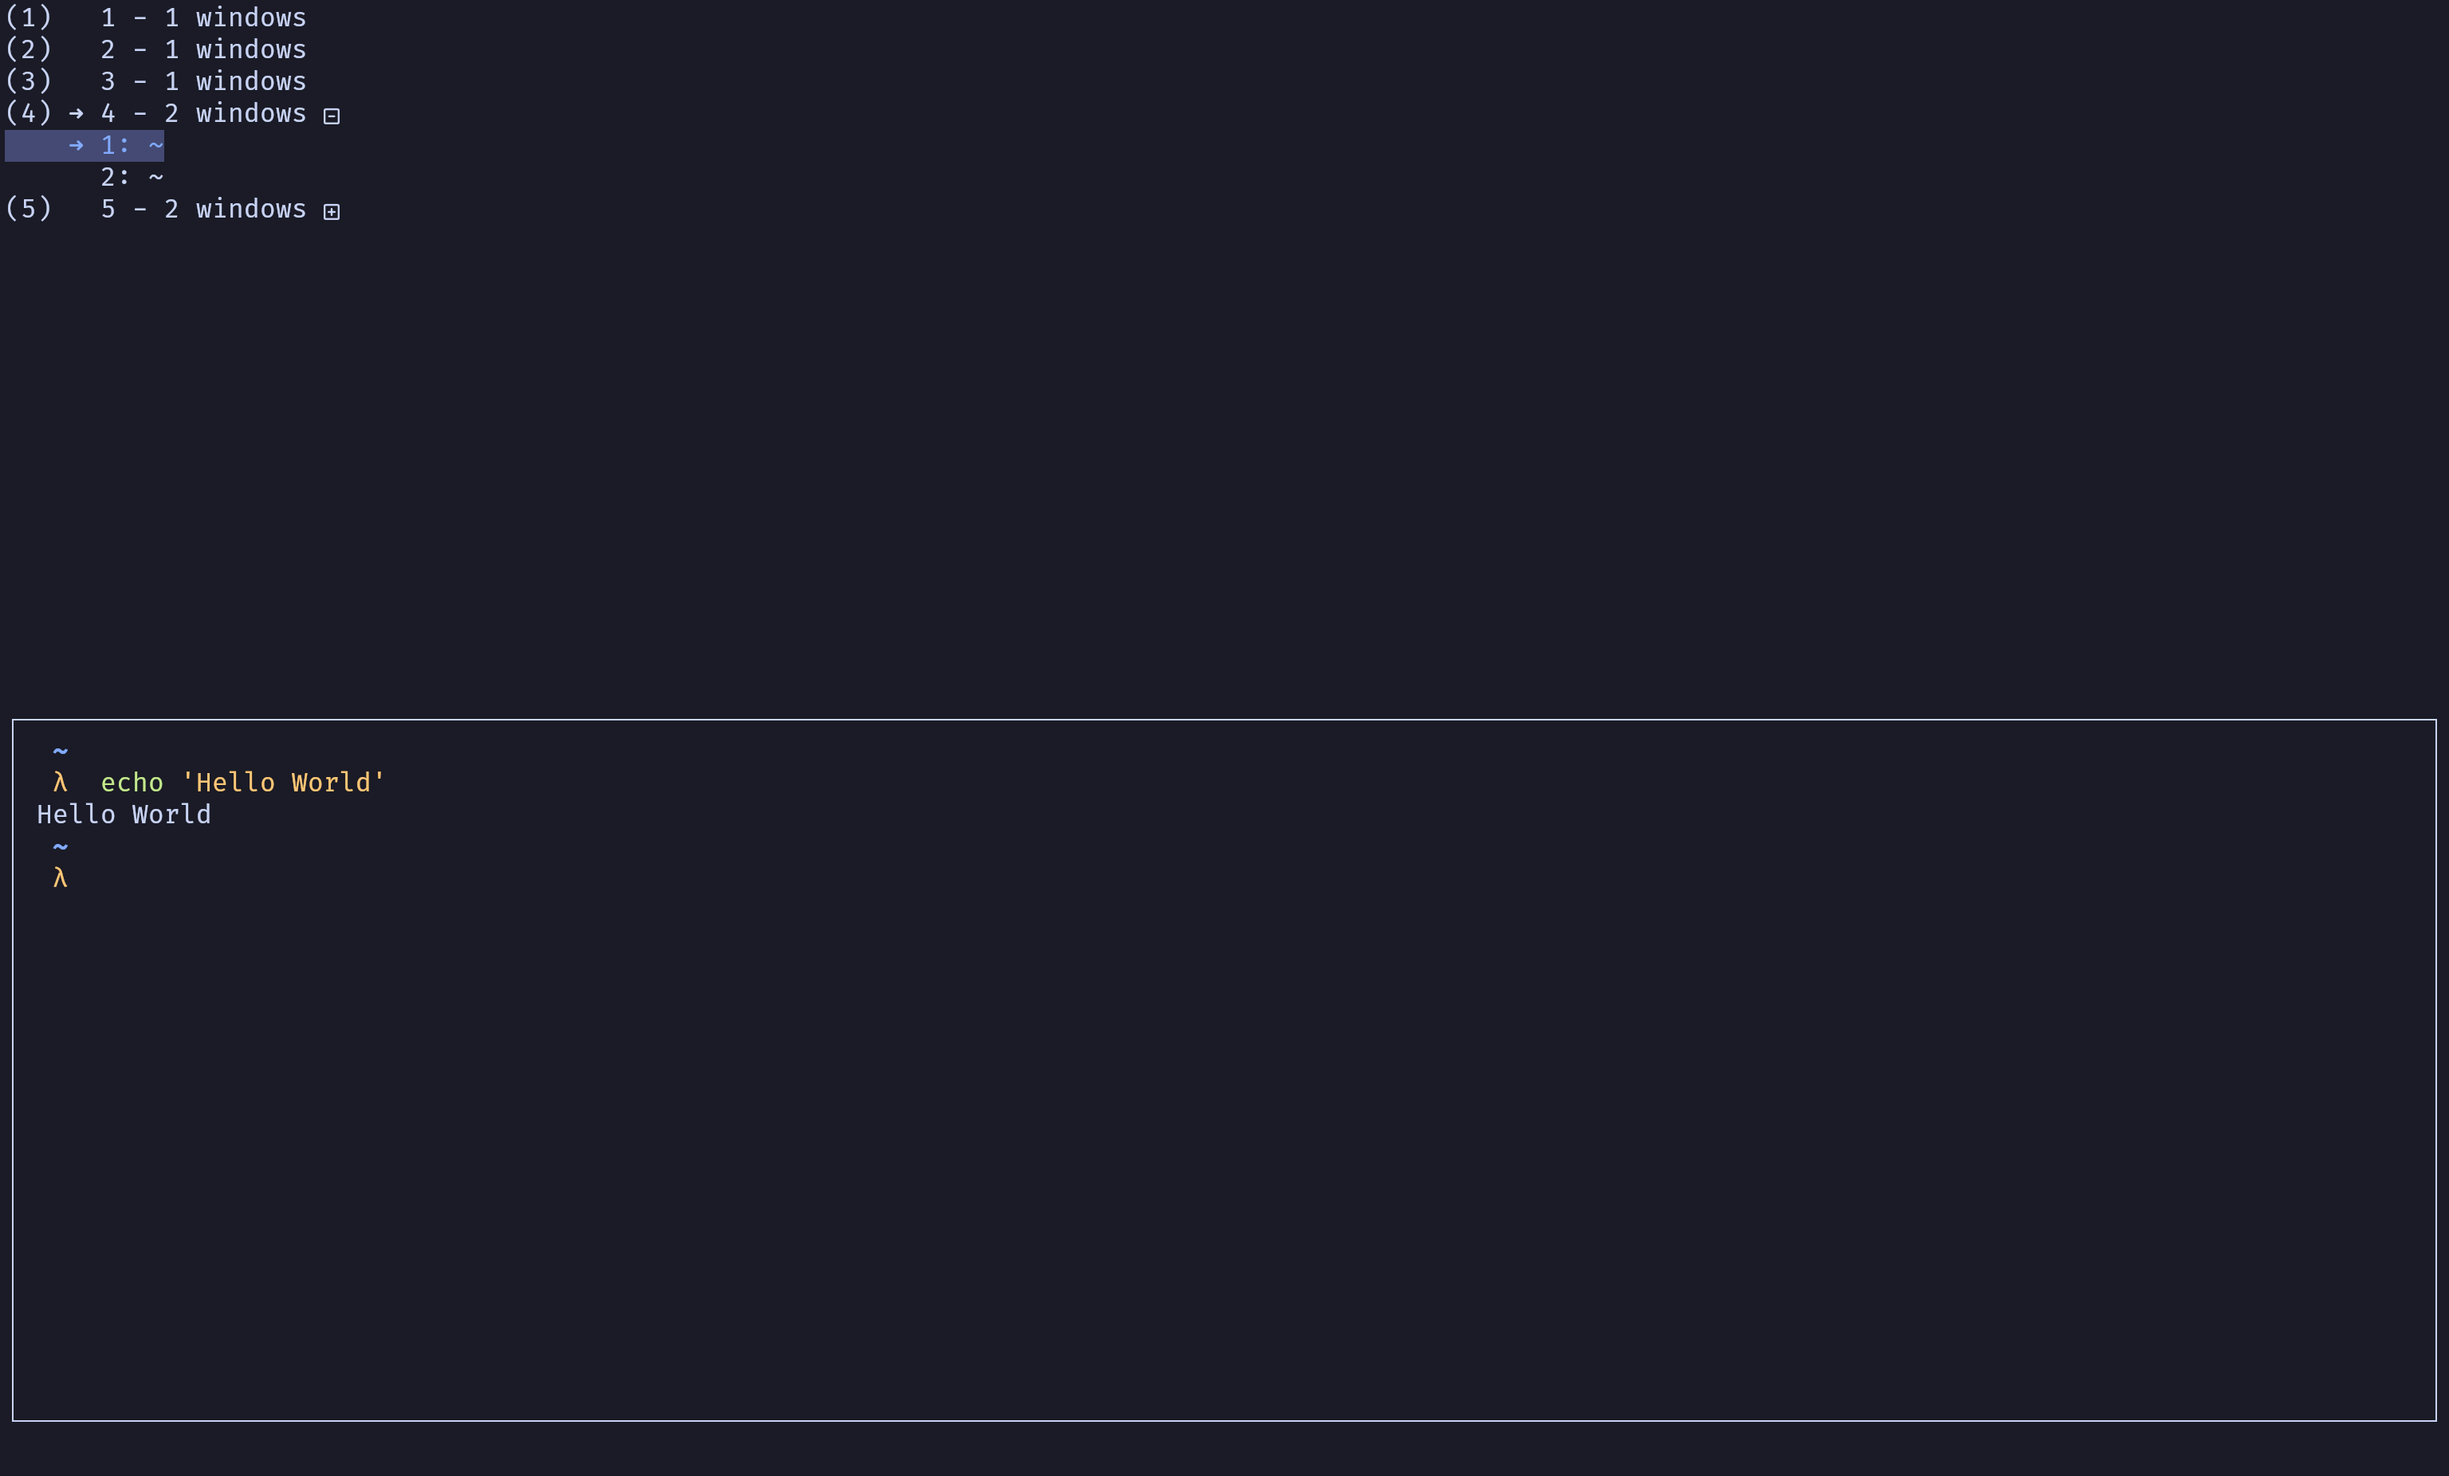
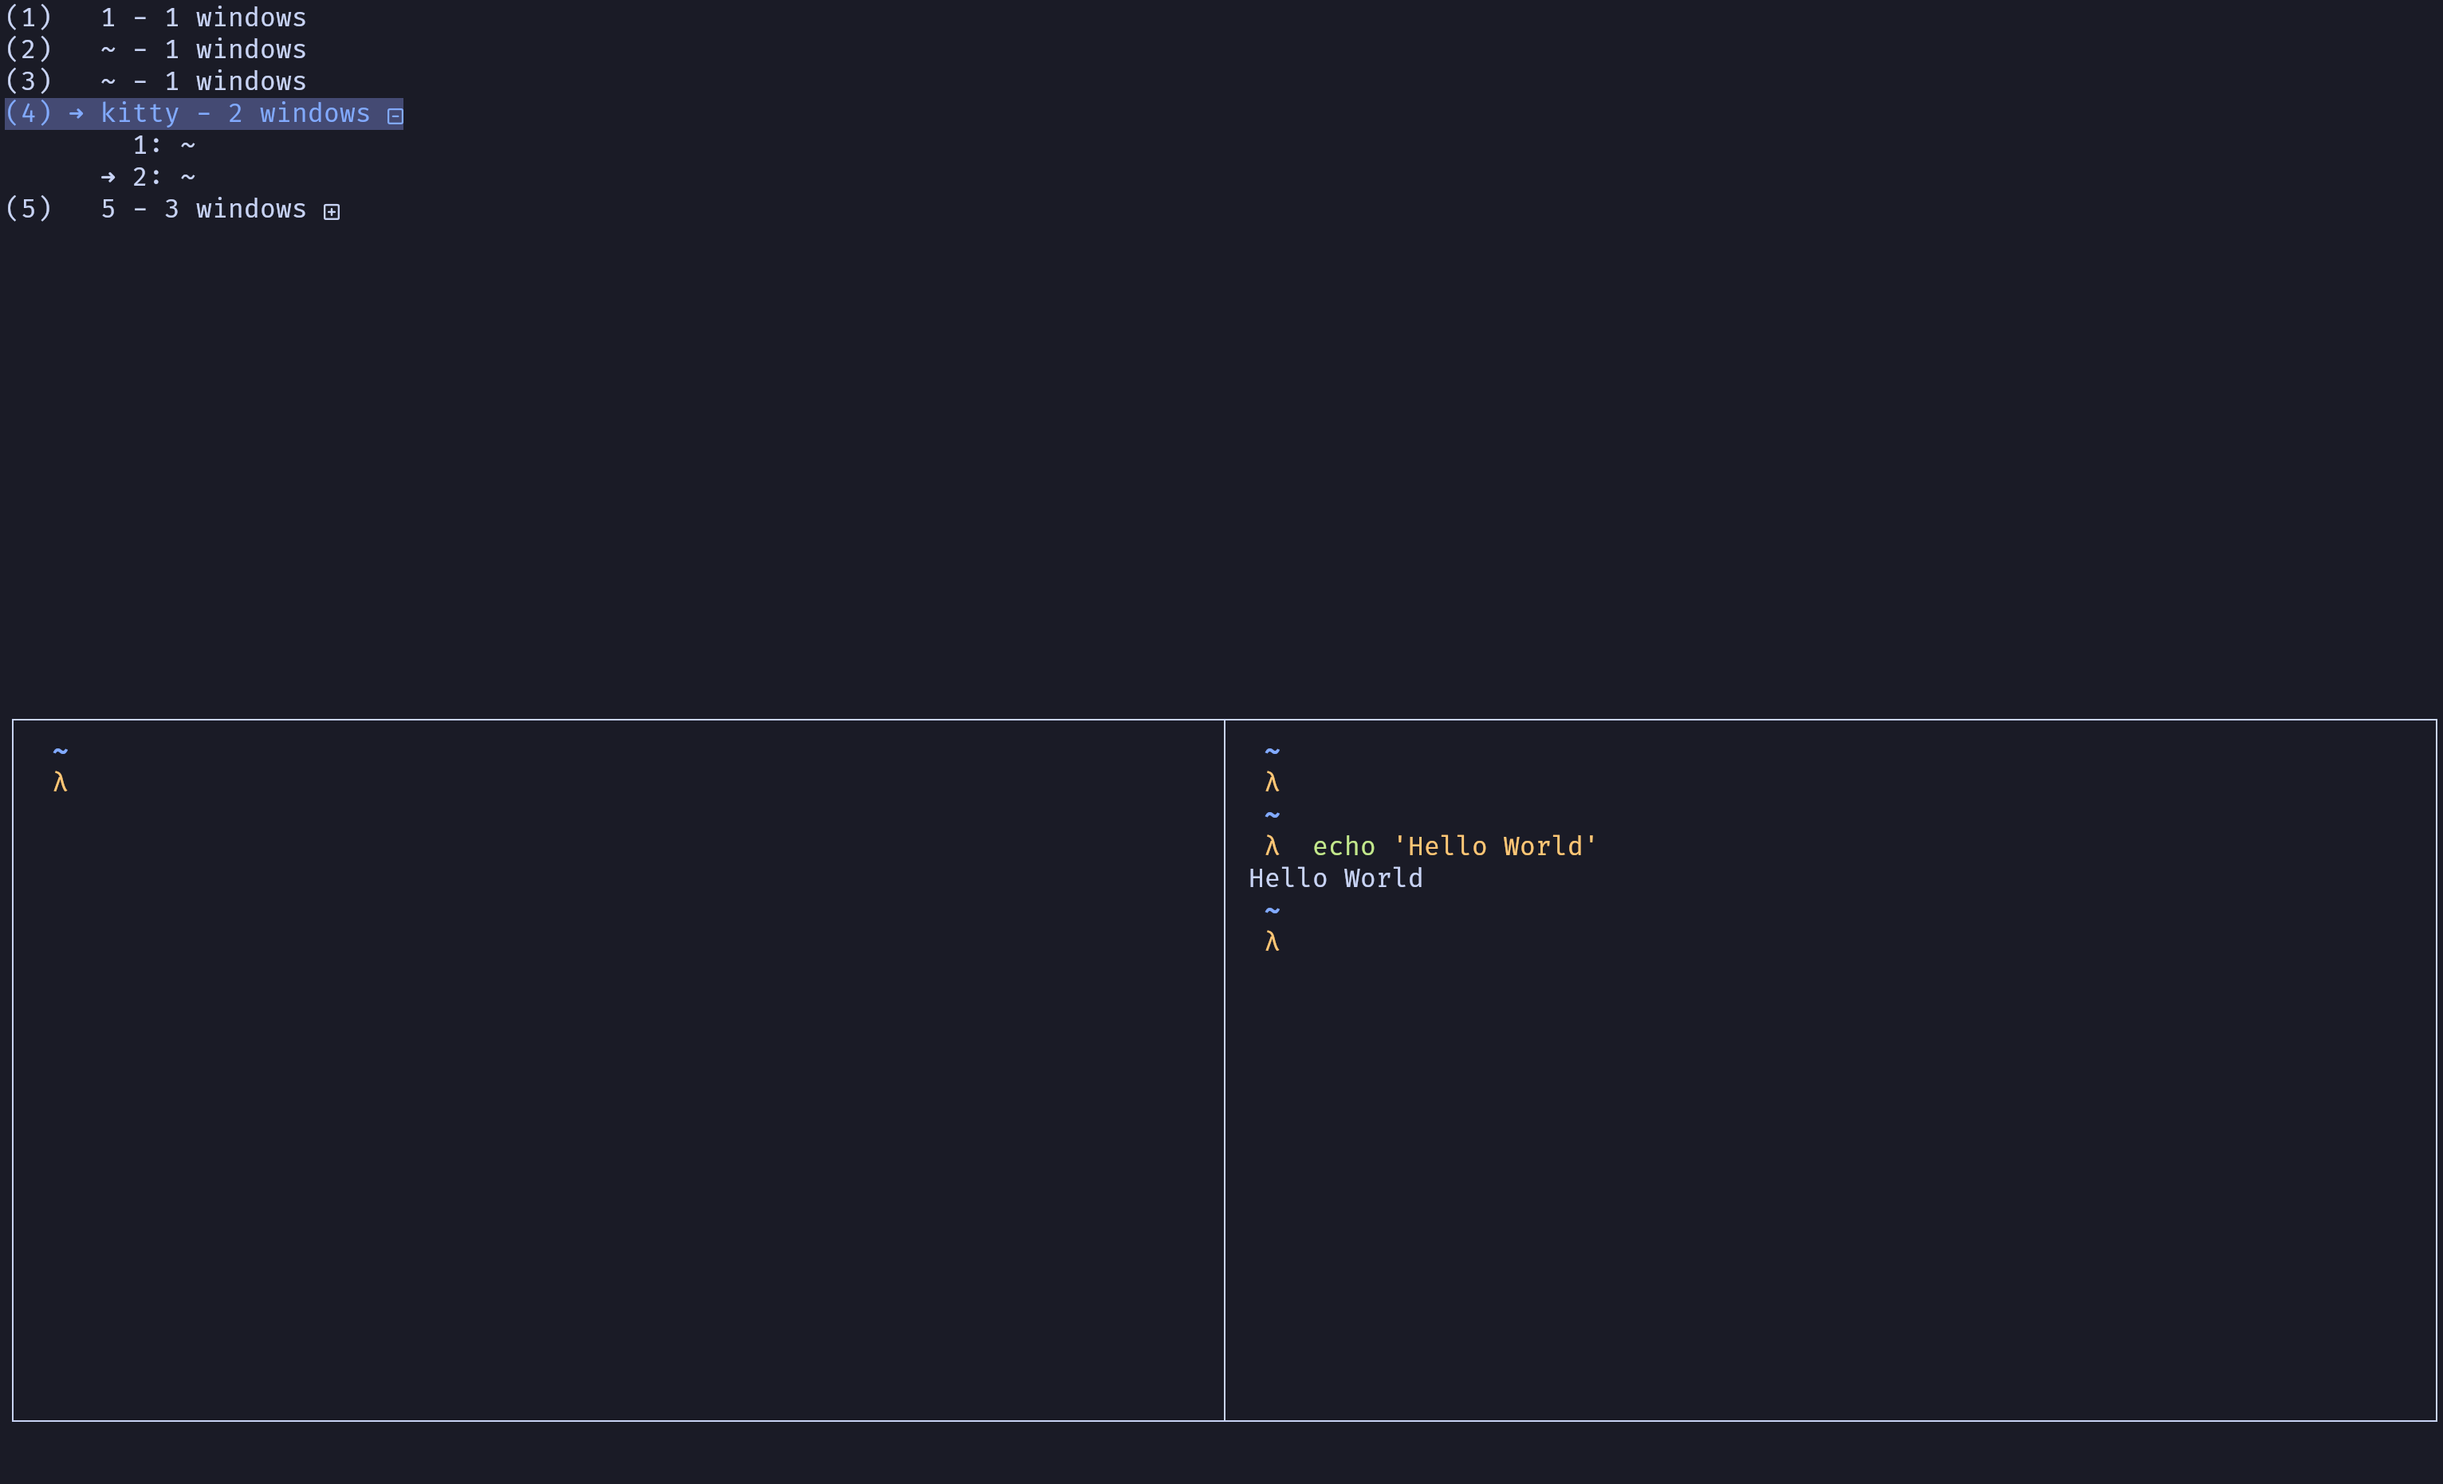
fix: fix the indent of window entry & update doc

diff --git a/tab_switcher.py b/tab_switcher.py
@@ -188,7 +188,6 @@ class TabSwitcher(Handler):
         self.write(encode_send(focus_window))
         self.on_exit()
 
-
     def draw_screen(self) -> None:
         entry_num = 0
         self.cmd.clear_screen()
@@ -210,16 +209,16 @@ class TabSwitcher(Handler):
             expand_icon = ' ' if wins_num <= 1 else '' if expanded else ''
             tab_name = f'({i+1}) {active_arrow} {tab["title"]} - {wins_num} windows {expand_icon}'
             if self.selected_entry_type == 'tab' and i == self.selected_tab_idx:
-                draw(styled(tab_name, bg='gray', fg='blue'))
+                draw(styled(tab_name, bg=8, fg='blue'))
             else:
                 draw(tab_name)
             if expanded:
                 for n, w in enumerate(windows):
                     entry_num += 1
                     active_window = active_arrow if w['id'] in active_group else ' '
-                    win_name = f'    {active_window} {n+1}: {w["title"]}'
+                    win_name = f'{" "*(len(str(i+1))+ 5)}{active_window} {n+1}: {w["title"]}'
                     if self.selected_entry_type == 'win' and n == self.selected_win_idx:
-                        draw(styled(win_name, bg='gray', fg='blue'))
+                        draw(styled(win_name, bg=8, fg='blue'))
                     else:
                         draw(win_name)
 

diff --git a/README.md b/README.md
@@ -1,32 +1,36 @@
 # Kitty-mux
-A Custom [kitten](https://sw.kovidgoyal.net/kitty/kittens/custom/) to mimic tmux's multiplexer feature: it enables a number of kitty tabs or windows to be created, accessed, and controlled from a single screen.
+A Custom [kitten](https://sw.kovidgoyal.net/kitty/kittens/custom/) to mimic tmux's multiplexer feature: it enables user to navigate, access, and control kitty tabs or windows to from a single screen.
 
 ![](./screenshot.png)
 
 ## Motivation 
-[tmux](https://github.com/tmux/tmux) is very useful as a sessions/windows browser for terminal. However, it's very slow if you do things like opening multiple Neovim instances when running a project, or running an AI model like ollama, even if you combine with a fast terminal like [alacritty](https://github.com/alacritty/alacritty), which doesn't support tabs/windows by itself.
-Therefore, I decided to switch to kitty, and realized that I could customized a kitten to replace tmux.
+[tmux](https://github.com/tmux/tmux) is very useful as a sessions/windows browser for terminal. However, it will become very slow, if you start to do things like opening multiple Neovim instances while running a big project, or just run an AI model like ollama. The [performance](https://github.com/kovidgoyal/kitty) is not very good, even if you run a fast terminal like [alacritty](https://github.com/alacritty/alacritty), which doesn't support tabs/windows by itself.
+Therefore, I decided to switch to [kitty](https://github.com/kovidgoyal/kitty), and realized that I could customized a kitten to replace tmux.
 This is a tool to give kitty the similar features. The idea is to bind a hotkey to run a tabs/windows browser in kitty so that you can jump to known windows with vim-like key bindings.
 
 ## Installation
 
-```shell
+```sh
 git clone git@github.com:CaeChao/kitty-mux.git ~/.config/kitty/kitty-mux
 ```
 
 ## Getting Started
 You'll need to:
 * allow remote control in kitty
-```shell
+
+```conf
 allow_remote_control yes
 ```
 
-* create kitty mappings
+* create kitty mappings in your kitty.conf
 
 For example:
-```shell
+
+```conf
+# ~/.config/kitty/kitty.conf
+
 # Window/Tab management
-map ctrl+a>w kitten kitty-mux/tab_switcher.py # use ctrl+a as prefix + w to list tabs
+map ctrl+a>w kitten kitty-mux/tab_switcher.py # use ctrl+a as prefix + w to trigger kitty-mux
 tab_bar_style hidden
 map ctrl+a>$ set_tab_title " "
 enabled_layouts splits:split_axis=horizontal,stack,grid
@@ -37,7 +41,7 @@ map ctrl+a>z toggle_layout stack
 map ctrl+a>% launch --location=vsplit --cwd=current
 map ctrl+a>shift+' launch --location=hsplit --cwd=current
 map ctrl+a>c launch --type=tab --cwd=current
-map ctrl+a>t  new_tab !neighbor
+map ctrl+a>t new_tab !neighbor
 
 # Movement
 map ctrl+a>h previous_window
